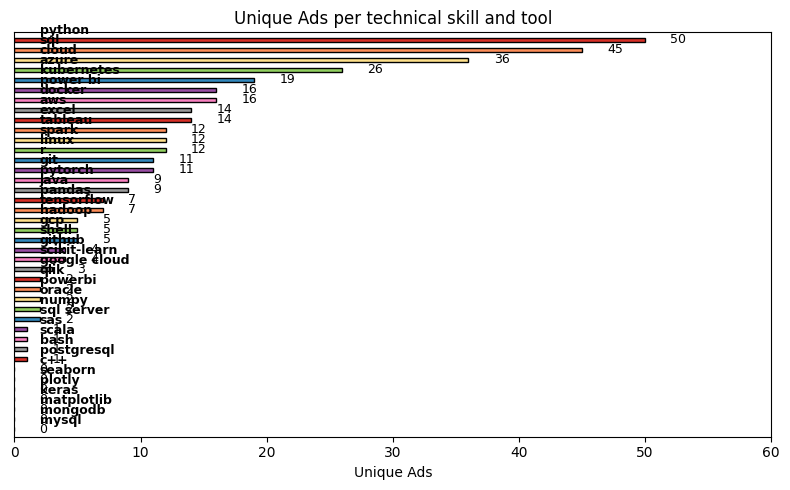
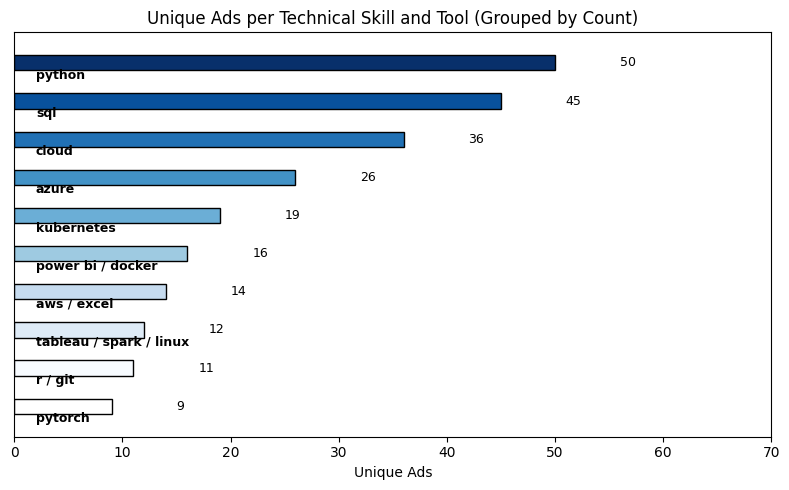
jobs single skills in blue, same values in same bar, labels need adjustments

diff --git a/src/visualization/jobs_single_skills_vis.py b/src/visualization/jobs_single_skills_vis.py
@@ -1,49 +1,60 @@
+import os
+import sys
+from pathlib import Path
 import pandas as pd
 import matplotlib.pyplot as plt
-import os
-from pathlib import Path
-import sys
 
+# --- Fixed Blue Palette (10 steps) ---
+blues_10 = [
+    '#ffffff',
+    '#f7fbff',
+    '#deebf7',
+    '#c6dbef',
+    '#9ecae1',
+    '#6baed6',
+    '#4292c6',
+    '#2171b5',
+    '#08519c',
+    '#08306b'
+]
 
 CSV_DELIMITER = ';'
 
 def create_single_skill_visualization(input_file_path: Path, output_file_path: Path, show_plot: bool = False):
+    """Creates a horizontal bar chart showing Unique Ads per grouped skill count, using blue color grading."""
     # Check if file exists
-
     if not os.path.exists(input_file_path):
-
         print(f"ERROR: Input file not found: {input_file_path}")
-
         return False
 
     try:
-
         # Read CSV
         df = pd.read_csv(input_file_path, sep=CSV_DELIMITER)
 
-        # Sort by Unique_Ads descending
-        df = df.sort_values(by="Unique_Ads", ascending=False)
+        # Sort by Unique_Ads descending and keep top 15
+        df = df.sort_values(by="Unique_Ads", ascending=False).head(15)
 
-        # Custom color palette (distinct colors)
-        custom_colors = [
-            "#d73027",  # red
-            "#fc8d59",  # orange
-            "#fee08b",  # yellow
-            "#91cf60",  # green
-            "#3288bd",  # blue
-            "#984ea3",  # purple
-            "#f781bf",  # pink
-            "#999999"   # grey
-        ]
+        # --- Group skills with same Unique_Ads ---
+        grouped = (
+            df.groupby("Unique_Ads")["Skill"]
+            .apply(lambda skills: " / ".join(skills))  # join with slash separator
+            .reset_index()
+            .sort_values(by="Unique_Ads", ascending=False)
+        )
 
-        # Repeat colors if fewer than needed
-        colors = (custom_colors * ((len(df) // len(custom_colors)) + 1))[:len(df)]
+        # --- Assign colors ---
+        num_bars = len(grouped)
+        # Darkest blue for top value, lightest for lowest
+        colors = [blues_10[-(i + 1)] for i in range(num_bars)]
+        # If more bars than colors, repeat palette
+        if num_bars > len(colors):
+            colors = (colors * ((num_bars // len(colors)) + 1))[:num_bars]
 
-        # Create figure
+        # --- Create figure ---
         fig, ax = plt.subplots(figsize=(8, 5))
 
         # Draw horizontal bars
-        bars = ax.barh(range(len(df)), df["Unique_Ads"], color=colors, edgecolor='black', height=0.4)
+        bars = ax.barh(range(num_bars), grouped["Unique_Ads"], color=colors, edgecolor='black', height=0.4)
 
         # Invert Y-axis (largest bar on top)
         ax.invert_yaxis()
@@ -53,21 +64,21 @@ def create_single_skill_visualization(input_file_path: Path, output_file_path: P
 
         # Axis labels and title
         ax.set_xlabel("Unique Ads")
-        ax.set_title("Unique Ads per technical skill and tool")
+        ax.set_title("Unique Ads per Technical Skill and Tool (Grouped by Count)")
 
         # Layout parameters
-        label_shift_y = -0.45     # vertical shift for skill labels
-        xshift_label = 2         # min horizontal shift for skill labels
-        xshift_value = 2         # shift for numeric labels
-        right_margin = 10       # space between longest number and right frame (adjustable)
+        label_shift_y = 0.3     # vertical shift for skill labels
+        xshift_label = 2        # horizontal shift for skill labels
+        xshift_value = 6        # numeric label shift
+        right_margin = 20       # space between longest number and right frame (adjustable)
 
-        # Add skill labels above each bar
-        for bar, skill in zip(bars, df["Skill"]):
+        # Add grouped skill labels above bars
+        for bar, skill_text in zip(bars, grouped["Skill"]):
             y_pos = bar.get_y() + bar.get_height() + label_shift_y
             x_pos = bar.get_x() + max(xshift_label, bar.get_width() * 0.02)
-            ax.text(x_pos, y_pos, skill, ha='left', va='bottom', fontsize=9, fontweight='bold')
+            ax.text(x_pos, y_pos, skill_text, ha='left', va='bottom', fontsize=9, fontweight='bold')
 
-        # Add numeric labels (shifted slightly right)
+        # Add numeric values (shifted slightly right)
         for bar in bars:
             width = bar.get_width()
             ax.text(width + xshift_value, bar.get_y() + bar.get_height() / 2,
@@ -76,20 +87,18 @@ def create_single_skill_visualization(input_file_path: Path, output_file_path: P
         # Adjust Y-limits for equal top/bottom spacing
         top_bar_y = bars[0].get_y()
         bottom_bar_y = bars[-1].get_y() + bars[-1].get_height()
-        extra_space = label_shift_y + 1
+        extra_space = label_shift_y + 0.3
         ax.set_ylim(bottom_bar_y + extra_space, top_bar_y - extra_space)
 
-        # Adjust X-limits to add right margin (for label-to-frame distance)
-        max_width = df["Unique_Ads"].max()
+        # Adjust X-limits to add right margin
+        max_width = grouped["Unique_Ads"].max()
         ax.set_xlim(0, max_width + right_margin)
 
         # Clean layout
         plt.tight_layout()
 
-        # Save Plot
-
+        # Save plot
         os.makedirs(output_file_path.parent, exist_ok=True)
-
         plt.savefig(output_file_path, bbox_inches='tight')
 
         if show_plot:
@@ -98,15 +107,13 @@ def create_single_skill_visualization(input_file_path: Path, output_file_path: P
             plt.close(fig)
 
         print(f"SUCCESS: Single skill visualization saved to: {output_file_path}")
-
         return True
 
-
     except Exception as e:
-
         print(f"ERROR creating single skill visualization: {e}")
-
         return False
+
+
 
 
 # --- STANDALONE EXECUTION BLOCK ---

diff --git a/src/visualization/jobs_tasks_vis.py b/src/visualization/jobs_tasks_vis.py
@@ -48,7 +48,7 @@ def create_task_overview_visualization(input_file_path: Path, output_file_path: 
 
         # Axis labels and title
         ax.set_xlabel("Unique Ads")
-        ax.set_title("Unique Ads per Skill")
+        ax.set_title("Unique Ads per Task")
 
         # Layout parameters
         label_shift_y = -0.45     # vertical shift for skill labels
